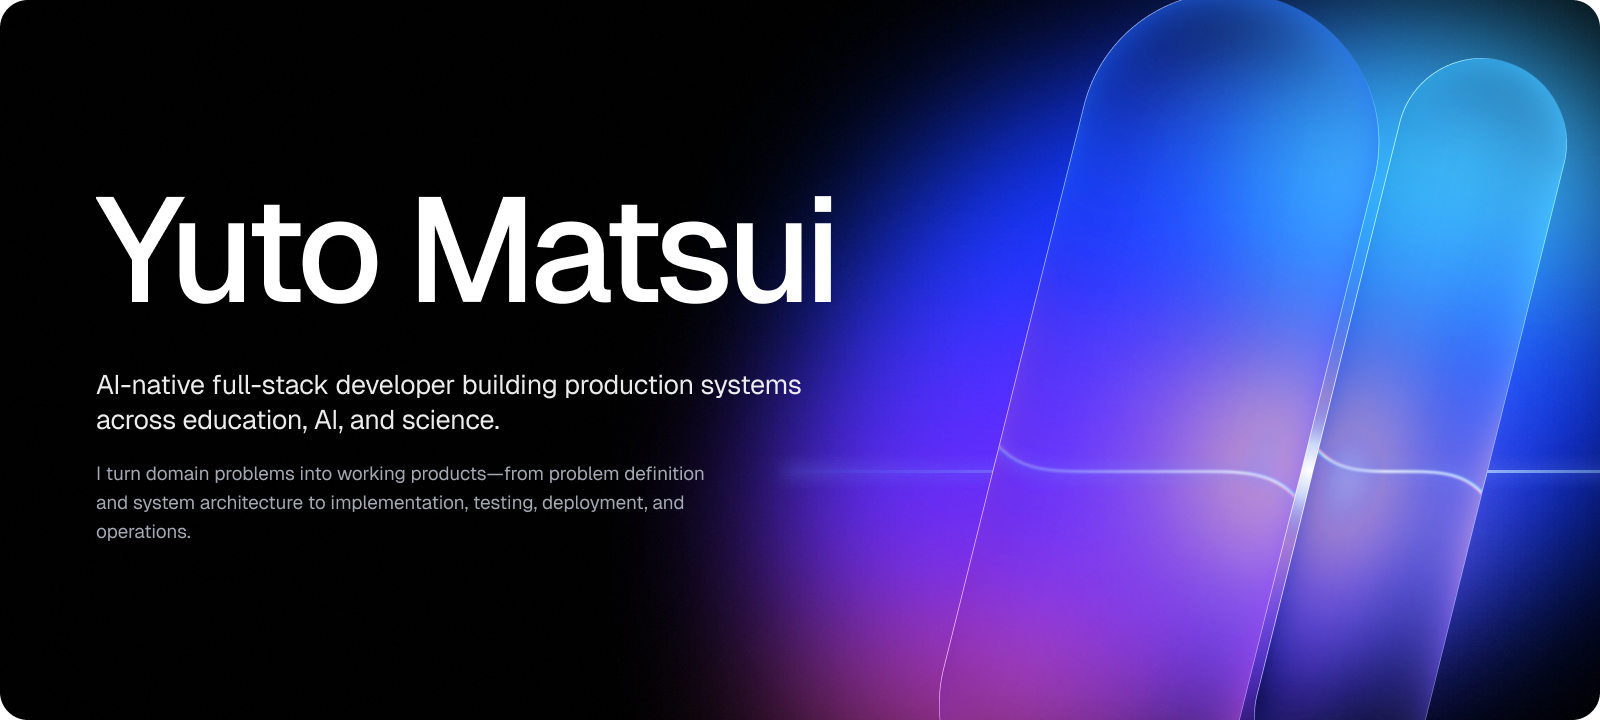
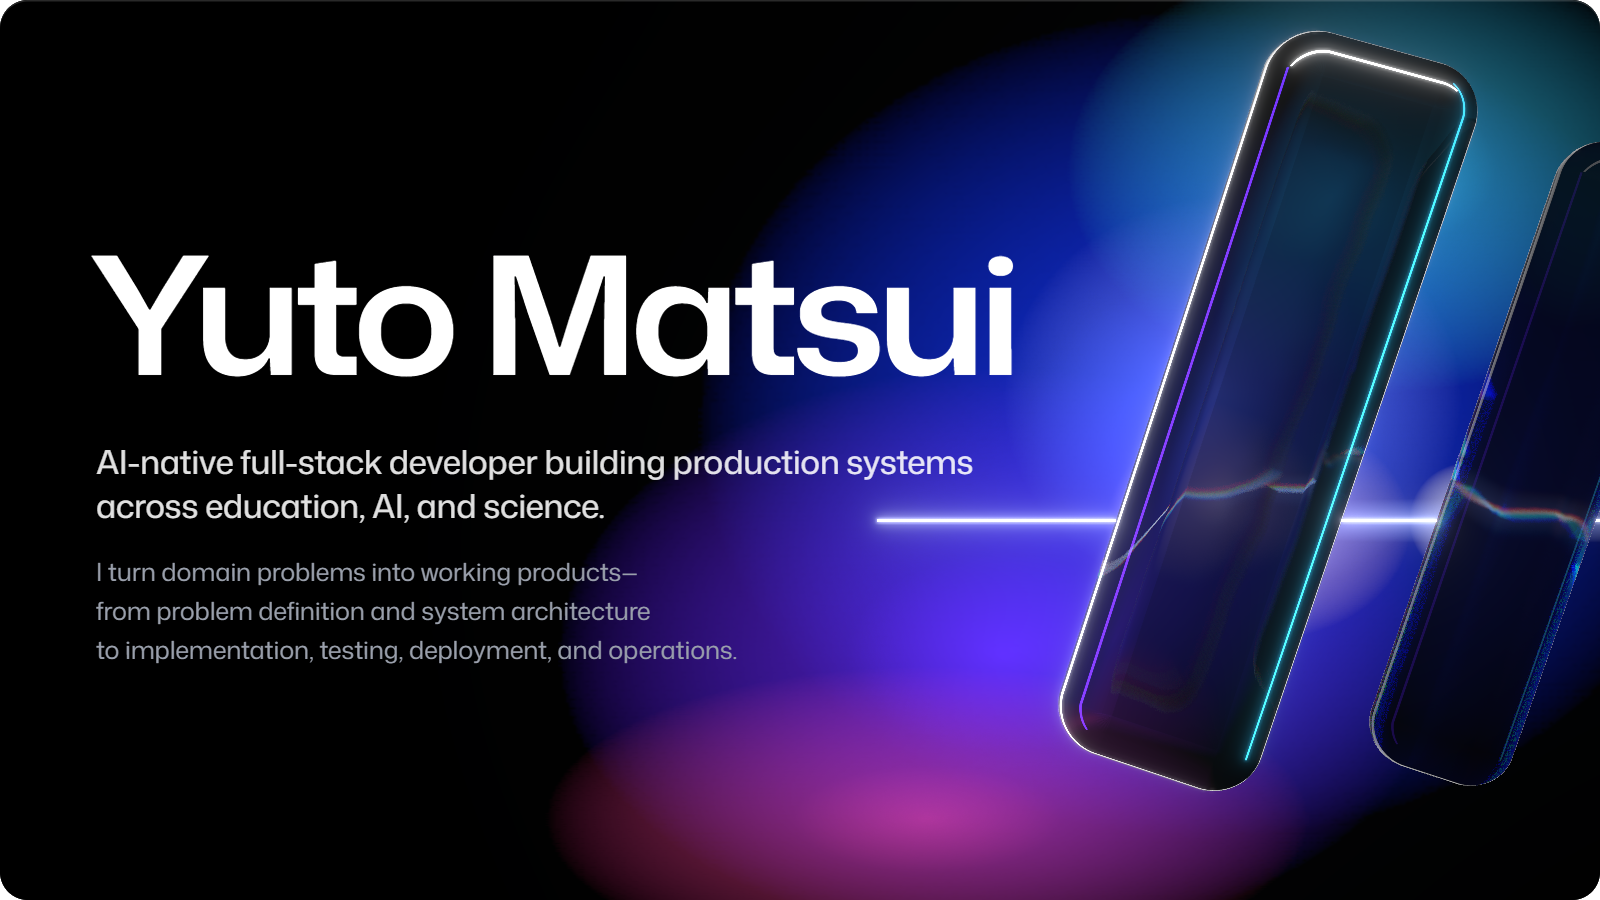
Rebuild profile with Three.js and Remotion renders
Render the masthead (desktop and mobile), the Japanese and English
portfolio links, the technical expertise panel, and the research panel
as one visual system. Align every block to the same width, set
intentional line breaks, and remove the spacing breaks.

diff --git a/README.md b/README.md
@@ -1,91 +1,18 @@
-<img src="./assets/masthead.png" alt="Yuto Matsui. AI-native full-stack developer building production systems across education, AI, and science. I turn domain problems into working products—from problem definition and system architecture to implementation, testing, deployment, and operations." width="100%">
+<picture>
+  <source media="(max-width: 600px)" srcset="./assets/masthead-mobile.png">
+  <img src="./assets/masthead.png" alt="Yuto Matsui. AI-native full-stack developer building production systems across education, AI, and science. I turn domain problems into working products—from problem definition and system architecture to implementation, testing, deployment, and operations." width="100%">
+</picture>
 
-<p>
-  <a href="https://yuto-matsui.com/"><img src="./assets/portfolio-ja.png" alt="Webポートフォリオを見る" width="49%"></a>
-  <a href="https://yuto-matsui.com/en/"><img src="./assets/portfolio-en.png" alt="Explore My Web Portfolio" width="49%"></a>
-</p>
+<p><a href="https://yuto-matsui.com/"><img src="./assets/portfolio-ja.png" alt="Webポートフォリオを見る" width="50%"></a><a href="https://yuto-matsui.com/en/"><img src="./assets/portfolio-en.png" alt="Explore My Web Portfolio" width="50%"></a></p>
 
 ## Advancing science. Transforming education.
 
 I work at the interface of **life science, software, and AI**, building systems that accelerate discovery, improve how knowledge is shared, and make complex work more intelligent and scalable.
 
-<br>
-
 ### Technical Expertise
 
-<p>
-  <strong>Web &amp; Applications</strong><br>
-  <a href="https://nextjs.org/"><img src="./assets/stack/nextjs.svg" alt="Next.js" width="92" height="80"></a>
-  <a href="https://fastapi.tiangolo.com/"><img src="./assets/stack/fastapi.svg" alt="FastAPI" width="92" height="80"></a>
-  <a href="https://dotnet.microsoft.com/"><img src="./assets/stack/dotnet.svg" alt=".NET" width="92" height="80"></a>
-</p>
-
-<p>
-  <strong>Data &amp; Backend</strong><br>
-  <a href="https://www.postgresql.org/"><img src="./assets/stack/postgresql.svg" alt="PostgreSQL" width="92" height="80"></a>
-  <a href="https://supabase.com/"><img src="./assets/stack/supabase.svg" alt="Supabase" width="92" height="80"></a>
-</p>
-
-<p>
-  <strong>Languages</strong><br>
-  <a href="https://www.typescriptlang.org/"><img src="./assets/stack/typescript.svg" alt="TypeScript" width="92" height="80"></a>
-  <a href="https://www.python.org/"><img src="./assets/stack/python.svg" alt="Python" width="92" height="80"></a>
-  <a href="https://learn.microsoft.com/en-us/dotnet/csharp/"><img src="./assets/stack/csharp.svg" alt="C#" width="92" height="80"></a>
-</p>
-
-<p>
-  <strong>Machine Learning</strong><br>
-  <a href="https://pytorch.org/"><img src="./assets/stack/pytorch.svg" alt="PyTorch" width="92" height="80"></a>
-  <a href="https://www.tensorflow.org/"><img src="./assets/stack/tensorflow.svg" alt="TensorFlow" width="92" height="80"></a>
-  <a href="https://huggingface.co/"><img src="./assets/stack/hugging-face.svg" alt="Hugging Face" width="92" height="80"></a>
-</p>
-
-<p>
-  <strong>AI Integration</strong><br>
-  <a href="https://openai.com/api/"><img src="./assets/stack/openai.svg" alt="OpenAI API" width="92" height="80"></a>
-  <a href="https://www.anthropic.com/"><img src="./assets/stack/anthropic.svg" alt="Anthropic API" width="92" height="80"></a>
-  <a href="https://modelcontextprotocol.io/"><img src="./assets/stack/mcp.svg" alt="MCP" width="92" height="80"></a>
-</p>
-
-<p>
-  <strong>Cloud Platforms</strong><br>
-  <a href="https://cloud.google.com/"><img src="./assets/stack/google-cloud.svg" alt="Google Cloud" width="92" height="80"></a>
-  <a href="https://aws.amazon.com/"><img src="./assets/stack/aws.svg" alt="AWS" width="92" height="80"></a>
-  <a href="https://www.cloudflare.com/"><img src="./assets/stack/cloudflare.svg" alt="Cloudflare" width="92" height="80"></a>
-  <a href="https://modal.com/"><img src="./assets/stack/modal.svg" alt="Modal" width="92" height="80"></a>
-</p>
-
-<p>
-  <strong>Infrastructure</strong><br>
-  <a href="https://www.docker.com/"><img src="./assets/stack/docker.svg" alt="Docker" width="92" height="80"></a>
-  <a href="https://nginx.org/"><img src="./assets/stack/nginx.svg" alt="nginx" width="92" height="80"></a>
-  <a href="https://developer.hashicorp.com/terraform"><img src="./assets/stack/terraform.svg" alt="Terraform" width="92" height="80"></a>
-</p>
-
-<p>
-  <strong>Quality &amp; Delivery</strong><br>
-  <a href="https://github.com/features/actions"><img src="./assets/stack/github-actions.svg" alt="GitHub Actions" width="92" height="80"></a>
-  <a href="https://playwright.dev/"><img src="./assets/stack/playwright.svg" alt="Playwright" width="92" height="80"></a>
-</p>
-
-<p>
-  <strong>3D &amp; Motion</strong><br>
-  <a href="https://threejs.org/"><img src="./assets/stack/threejs.svg" alt="Three.js" width="92" height="80"></a>
-  <a href="https://www.blender.org/"><img src="./assets/stack/blender.svg" alt="Blender" width="92" height="80"></a>
-  <a href="https://www.remotion.dev/"><img src="./assets/stack/remotion.svg" alt="Remotion" width="92" height="80"></a>
-</p>
-
-<br>
+<img src="./assets/stack.png" alt="Web &amp; Applications: Next.js, FastAPI, .NET. Data &amp; Backend: PostgreSQL, Supabase. Languages: TypeScript, Python, C#. Machine Learning: PyTorch, TensorFlow, Hugging Face. AI Integration: OpenAI API, Anthropic API, MCP. Cloud Platforms: Google Cloud, AWS, Cloudflare, Modal. Infrastructure: Docker, nginx, Terraform. Quality &amp; Delivery: GitHub Actions, Playwright. 3D &amp; Motion: Three.js, Blender, Remotion." width="100%">
 
 ## Research Background
 
-I am also a molecular biology researcher studying the molecular mechanisms of ALS/FTD, with a focus on C9orf72-associated neurodegeneration.
-
-I apply software engineering, automation, image analysis, and AI to research and education workflows.
-
-<p>
-  <strong>Bioimage Analysis</strong><br>
-  <a href="https://fiji.sc/"><img src="./assets/stack/fiji.svg" alt="Fiji" width="92" height="80"></a>
-  <a href="https://www.cellpose.org/"><img src="./assets/stack/cellpose.svg" alt="Cellpose" width="92" height="80"></a>
-  <a href="https://github.com/stardist/stardist"><img src="./assets/stack/stardist.svg" alt="StarDist" width="92" height="80"></a>
-</p>
+<img src="./assets/research.png" alt="I am also a molecular biology researcher studying the molecular mechanisms of ALS/FTD, with a focus on C9orf72-associated neurodegeneration. I apply software engineering, automation, image analysis, and AI to research and education workflows. Bioimage Analysis: Fiji, Cellpose, StarDist." width="100%">
